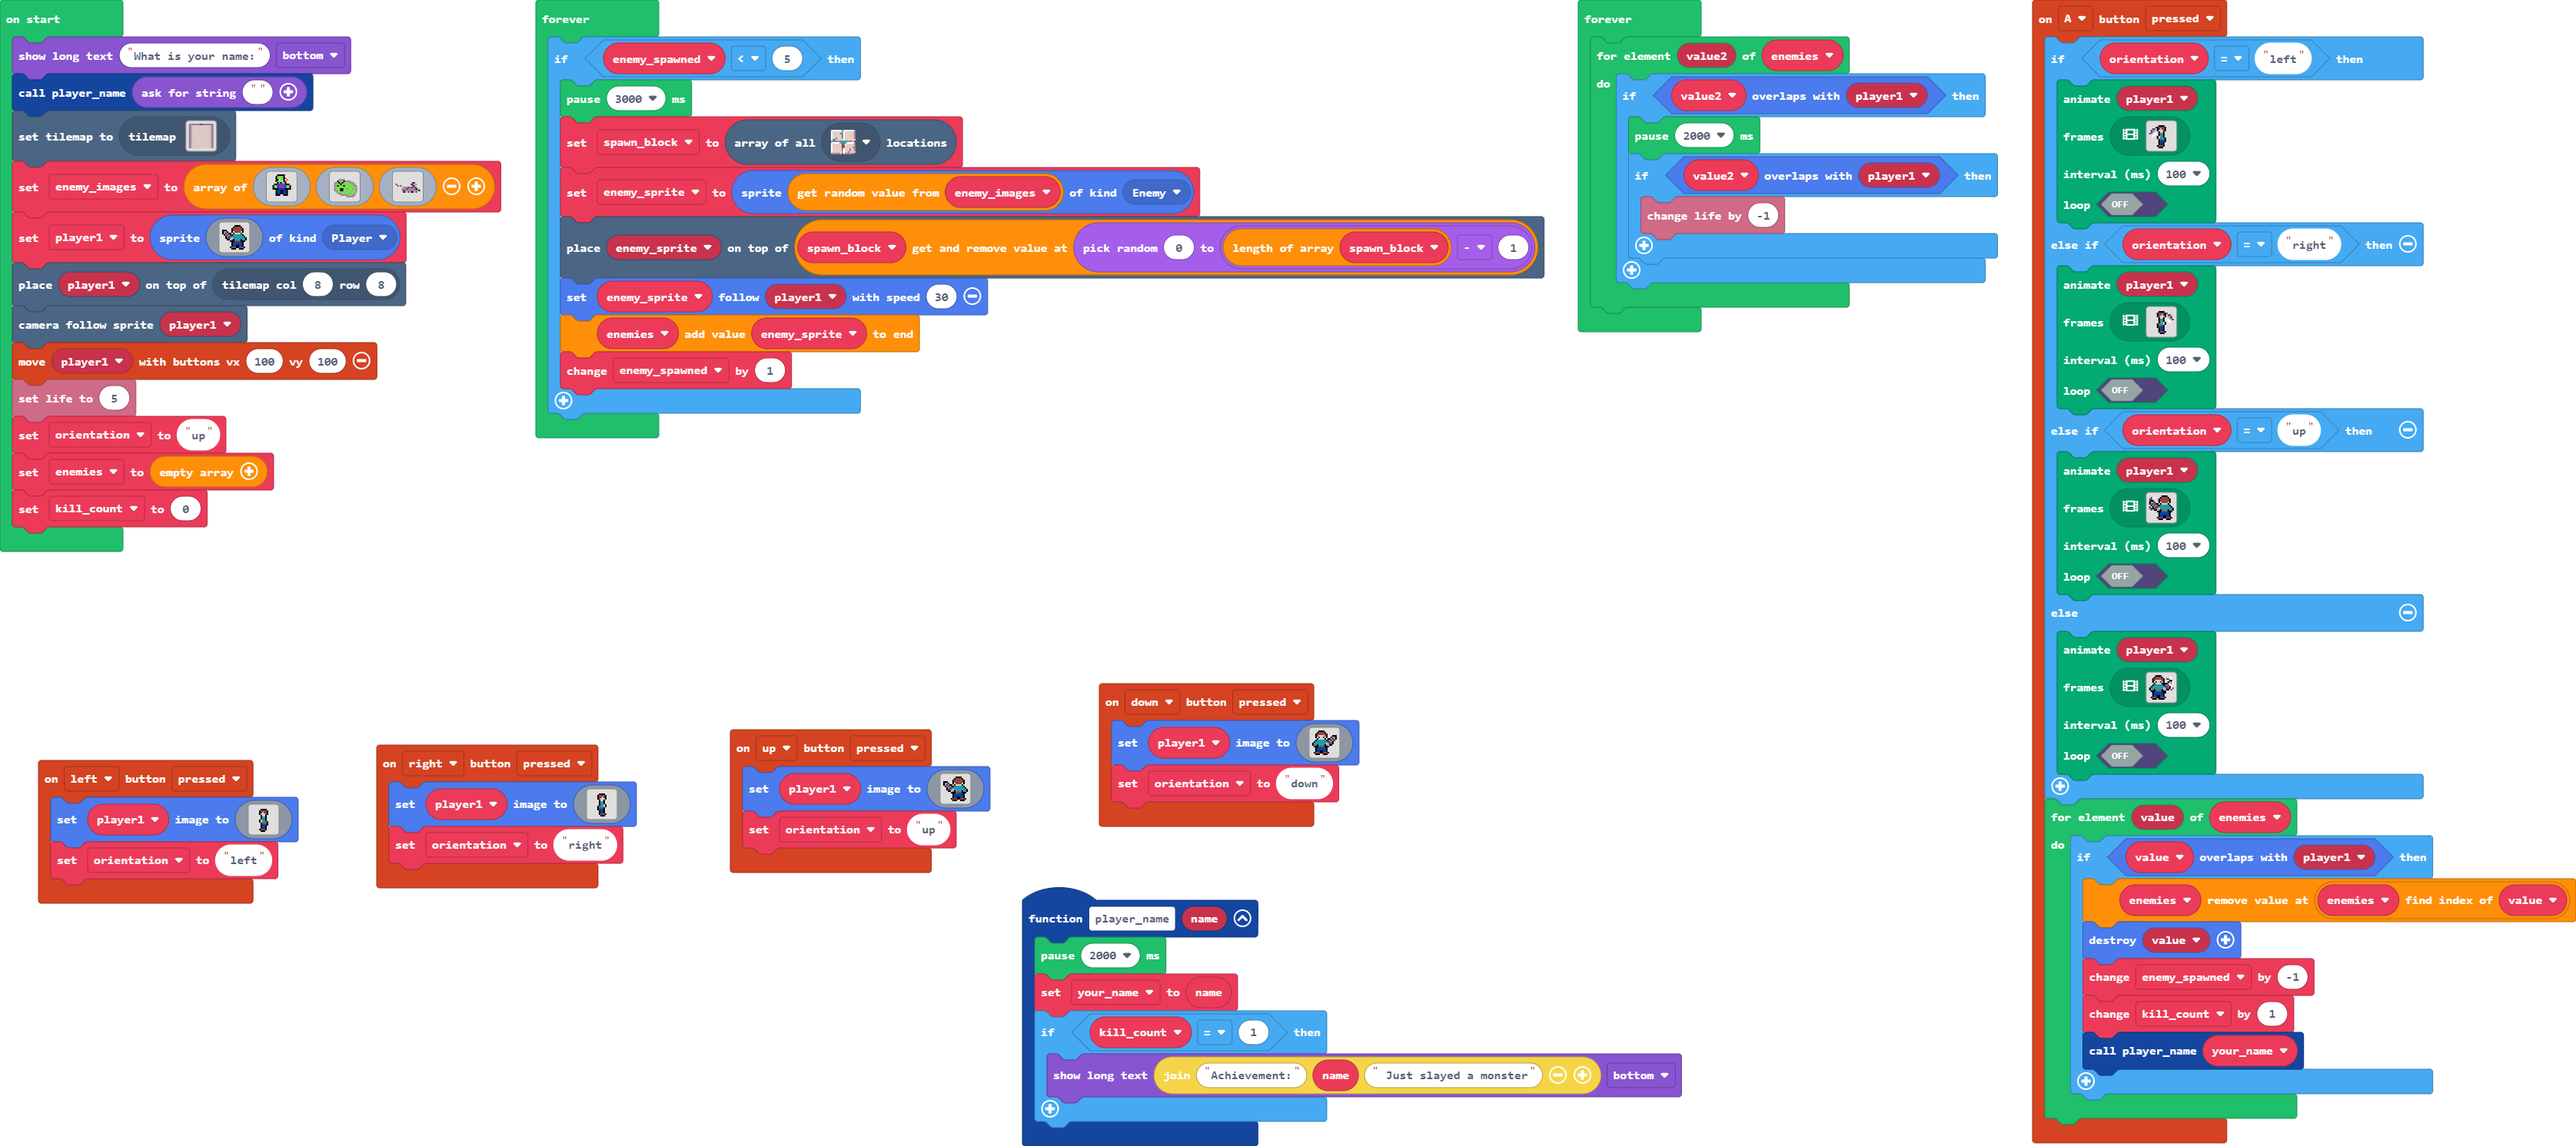
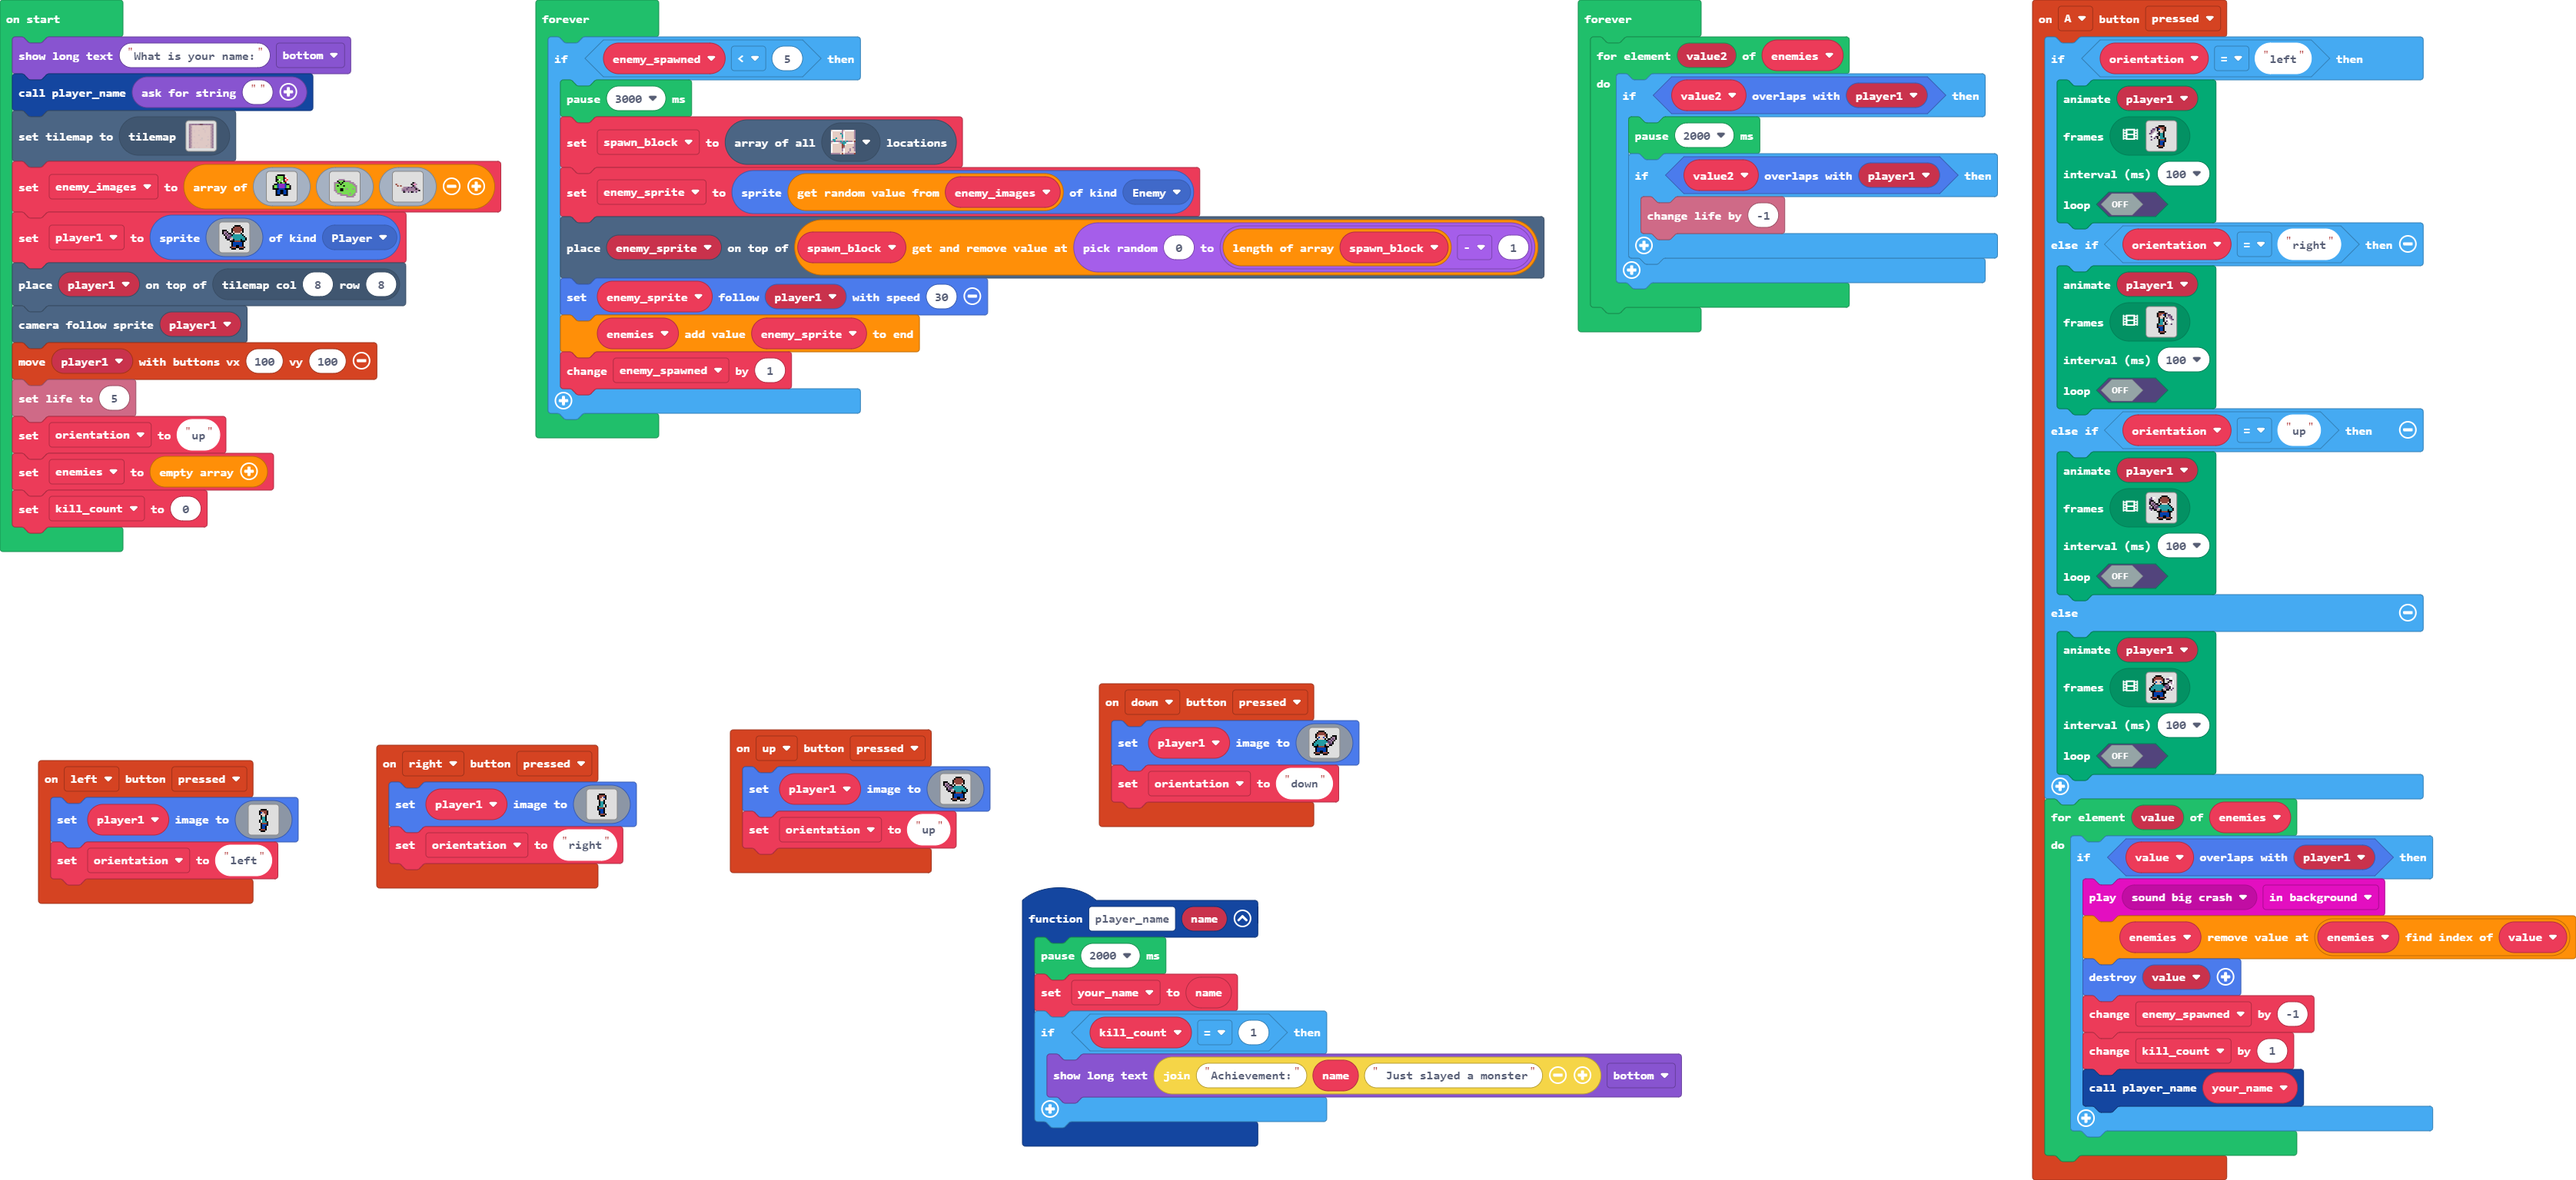
Update pxt.json, main.blocks, main.ts, tilemap.g.jres, tilemap.g.ts

Changed region(s): [[0.0, 0.0, 1.0, 1.0], [0.2793, 0.555, 0.6517, 1.0], [0.0, 0.6166, 0.2483, 0.8016]]

diff --git a/main.ts b/main.ts
@@ -20,11 +20,11 @@ controller.A.onEvent(ControllerButtonEvent.Pressed, function () {
             . . c c . f 8 d e e f . . . . . 
             . c b b . f d d d e f . . . . . 
             . c b . . . f d d f . . . . . . 
-            c b . 1 1 . f 6 6 f . . . . . . 
+            c b . 1 1 c f 6 6 f . . . . . . 
             . . 1 1 . . f 6 6 f . . . . . . 
-            . . 1 . . f d 6 6 f . . . . . . 
-            . . . . . f d 6 6 6 f . . . . . 
-            . . . . . . f e e e f . . . . . 
+            . c 1 . c f d 6 6 f . . . . . . 
+            . . . c . f d 6 6 6 f . . . . . 
+            . c . . . . f e e e f . . . . . 
             . . . . . . f 8 8 8 f . . . . . 
             . . . . . . f 8 8 f . . . . . . 
             . . . . . . f 8 8 f . . . . . . 
@@ -35,13 +35,13 @@ controller.A.onEvent(ControllerButtonEvent.Pressed, function () {
             . . . . . . f f f f . . . . . . 
             . . . . . f e e e e f . . . . . 
             . . . . . f 8 d e e f . . . . . 
-            . . c . . f d d d e f . . . . . 
-            . c c . 1 . f d d f . . . . . . 
-            b c b 1 1 . f 6 6 f . . . . . . 
+            . . c . c f d d d e f . . . . . 
+            . c c c 1 . f d d f . . . . . . 
+            b c b 1 1 c f 6 6 f . . . . . . 
             c b . 1 . . f 6 6 f . . . . . . 
-            c . 1 1 . f d 6 6 f . . . . . . 
+            c . 1 1 c f d 6 6 f . . . . . . 
             c c 1 . . f d 6 6 6 f . . . . . 
-            . c . . . . f e e e f . . . . . 
+            . c . c . . f e e e f . . . . . 
             . . . . . . f 8 8 8 f . . . . . 
             . . . . . . f 8 8 f . . . . . . 
             . . . . . . f 8 8 f . . . . . . 
@@ -77,11 +77,11 @@ controller.A.onEvent(ControllerButtonEvent.Pressed, function () {
             . . . . . f e e e e f c . . . . 
             . . . . . f e e d 8 f . c c . . 
             . . . . . f e d d d f . b b c . 
-            . . . . . . f d d f . . . b c . 
+            . . . . . . f d d f . c . b c . 
             . . . . . . f 6 6 f . 1 1 . b c 
-            . . . . . . f 6 6 f . . 1 1 . . 
+            . . . . . . f 6 6 f . c 1 1 . . 
             . . . . . . f 6 6 d f . . 1 . . 
-            . . . . . f 6 6 6 d f . . . . . 
+            . . . . . f 6 6 6 d f c . . c . 
             . . . . . f e e e f . . . . . . 
             . . . . . f 8 8 8 f . . . . . . 
             . . . . . . f 8 8 f . . . . . . 
@@ -92,15 +92,15 @@ controller.A.onEvent(ControllerButtonEvent.Pressed, function () {
             . . . . . . . . . . . . . . . . 
             . . . . . . f f f f . . . . . . 
             . . . . . f e e e e f . . . . . 
-            . . . . . f e e d 8 f . . . . . 
+            . . . . . f e e d 8 f c . . . . 
             . . . . . f e d d d f . . c . . 
             . . . . . . f d d f . 1 . c c . 
             . . . . . . f 6 6 f . 1 1 b c b 
-            . . . . . . f 6 6 f . . 1 . b c 
+            . . . . . . f 6 6 f c . 1 . b c 
             . . . . . . f 6 6 d f . 1 1 . c 
-            . . . . . f 6 6 6 d f . . 1 c c 
-            . . . . . f e e e f . . . . c . 
-            . . . . . f 8 8 8 f . . . . . . 
+            . . . . . f 6 6 6 d f c . 1 c c 
+            . . . . . f e e e f . . . c c . 
+            . . . . . f 8 8 8 f c . c . . . 
             . . . . . . f 8 8 f . . . . . . 
             . . . . . . f 8 8 f . . . . . . 
             . . . . . . f e e e f . . . . . 
@@ -245,6 +245,7 @@ controller.A.onEvent(ControllerButtonEvent.Pressed, function () {
     }
     for (let value of enemies) {
         if (value.overlapsWith(player1)) {
+            music.play(music.melodyPlayable(music.bigCrash), music.PlaybackMode.InBackground)
             enemies.removeAt(enemies.indexOf(value))
             sprites.destroy(value)
             enemy_spawned += -1

diff --git a/tilemap.g.ts b/tilemap.g.ts
@@ -83,6 +83,25 @@ namespace myTiles {
 . . . . . . . . . . . . . . . . 
 . . . . . . . . . . . . . . . . 
 `, [myTiles.transparency16,myTiles.tile3,myTiles.tile2,myTiles.tile5,myTiles.tile6,myTiles.tile7,myTiles.tile8,myTiles.tile9,myTiles.tile10,myTiles.tile11,myTiles.tile12,myTiles.tile14,myTiles.tile15,myTiles.tile16,myTiles.tile17,myTiles.tile18,myTiles.tile19,myTiles.tile20], TileScale.Sixteen);
+            case "level3":
+            case "level3":return tiles.createTilemap(hex`1000100000000000000000000000000000000000000000000000000000000000000000000000000000000000000000000000000000000000000000000000000000000000000000000000000000000000000000000000000000000000000000000000000000000000000000000000000000000000000000000000000000000000000000000000000000000000000000000000000000000000000000000000000000000000000000000000000000000000000000000000000000000000000000000000000000000000000000000000000000000000000000000000000000000000000000000000000000000000000000000000000000000000000000000000000000000000`, img`
+. . . . . . . . . . . . . . . . 
+. . . . . . . . . . . . . . . . 
+. . . . . . . . . . . . . . . . 
+. . . . . . . . . . . . . . . . 
+. . . . . . . . . . . . . . . . 
+. . . . . . . . . . . . . . . . 
+. . . . . . . . . . . . . . . . 
+. . . . . . . . . . . . . . . . 
+. . . . . . . . . . . . . . . . 
+. . . . . . . . . . . . . . . . 
+. . . . . . . . . . . . . . . . 
+. . . . . . . . . . . . . . . . 
+. . . . . . . . . . . . . . . . 
+. . . . . . . . . . . . . . . . 
+. . . . . . . . . . . . . . . . 
+. . . . . . . . . . . . . . . . 
+`, [myTiles.transparency16], TileScale.Sixteen);
         }
         return null;
     })
